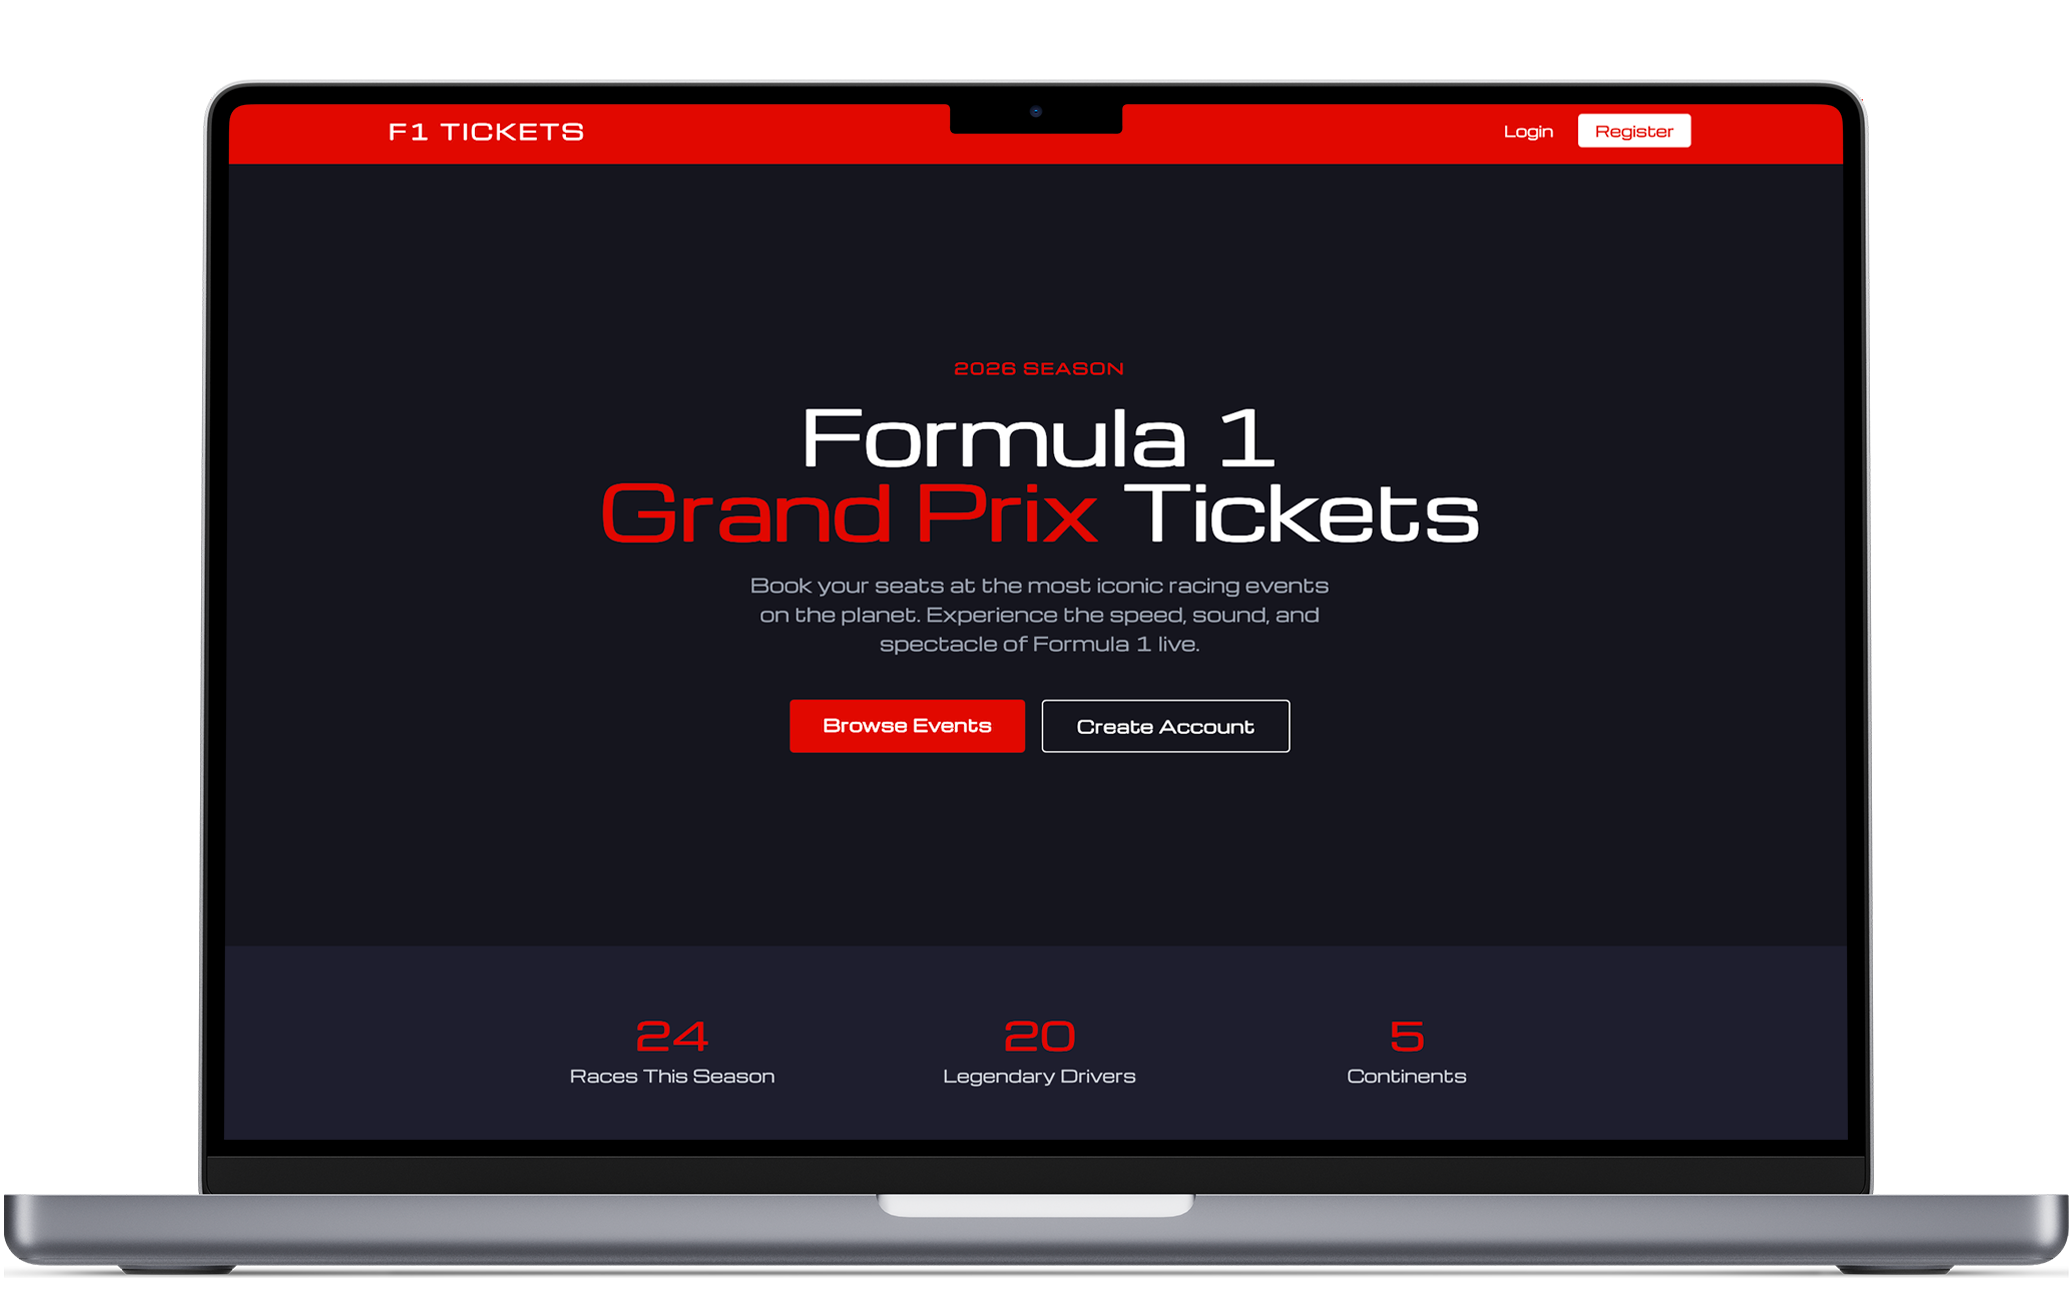
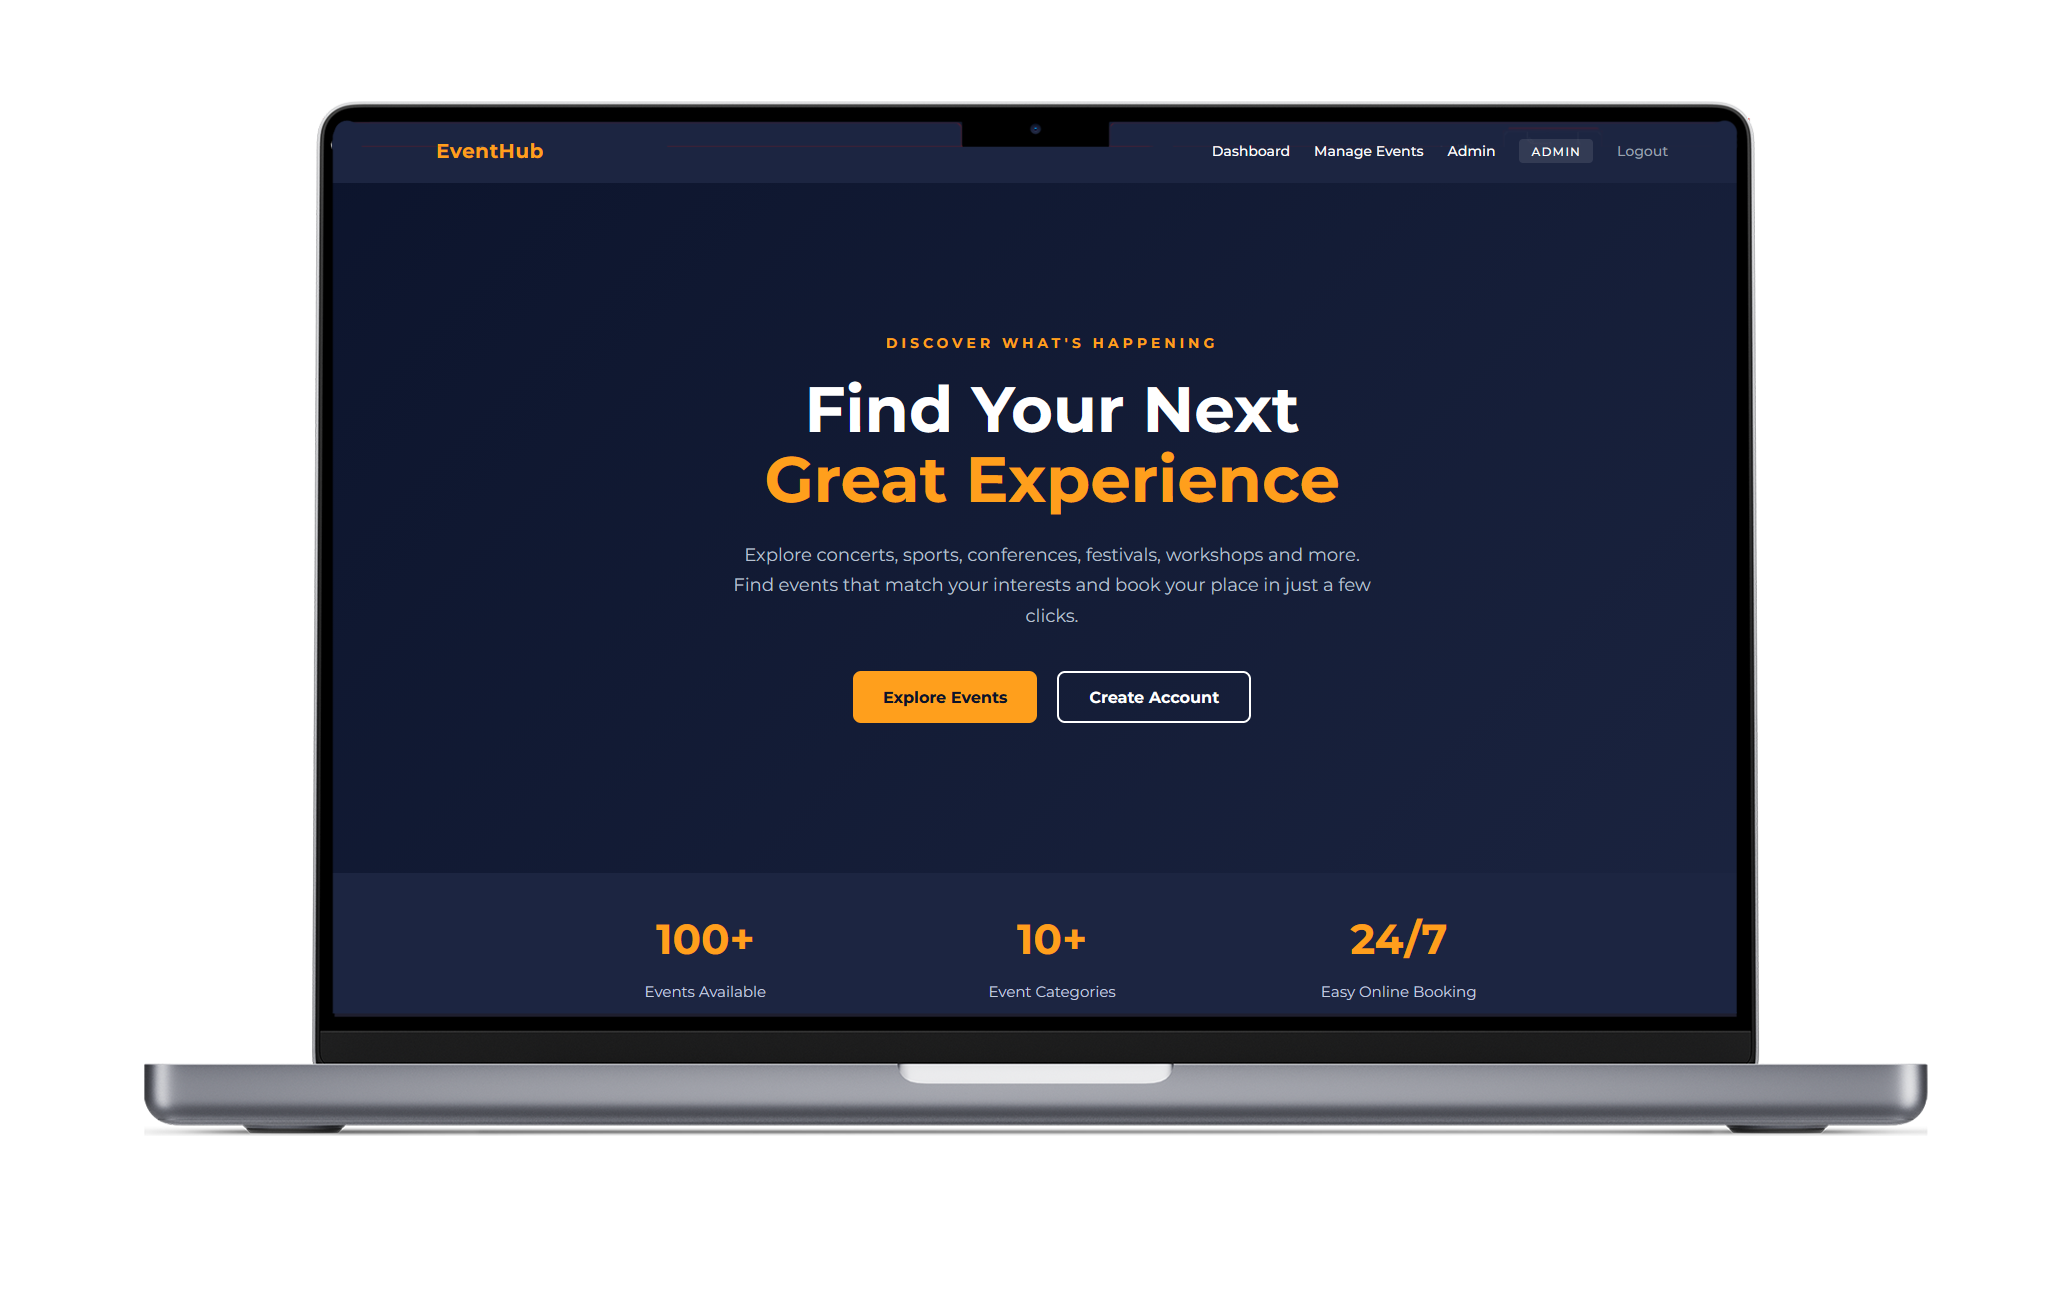
finishing website

diff --git a/app/page.js b/app/page.js
@@ -40,6 +40,7 @@ const projects = [
     type: 'FULL STACK',
     title: 'Event Management System',
     slug: 'eventManagement',
+    url: 'https://eventhub-smoky-tau.vercel.app/',
     description:
       'A full stack application to manage events, users, and registrations with authencation and admin dashboard',
     image: '/imagens/eventSystem.png',
@@ -329,7 +330,8 @@ export default function PortfolioLayout() {
                       </div>
 
                       <Link
-                        href={`/projects/${project.slug}`}
+                        href={project.url ?? `/projects/${project.slug}`}
+                        target={project.url ? '_blank' : undefined}
                         className="main-project-link">
                         View project
                       </Link>
